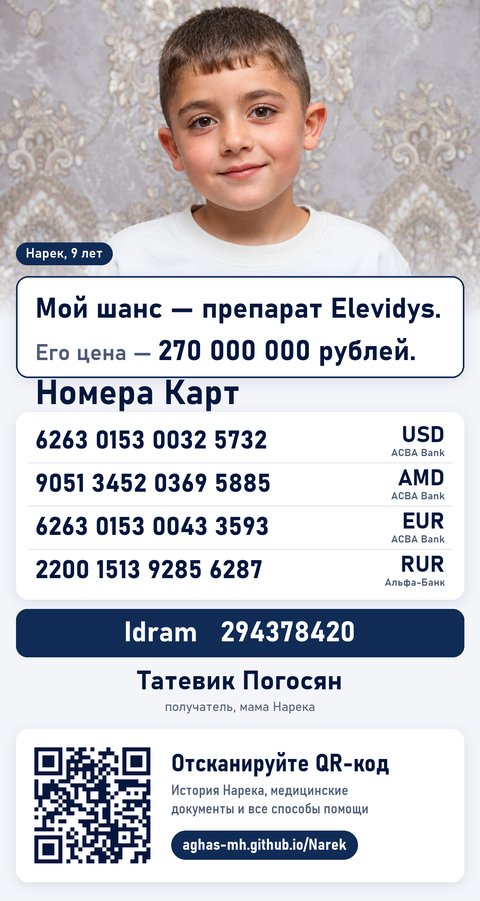
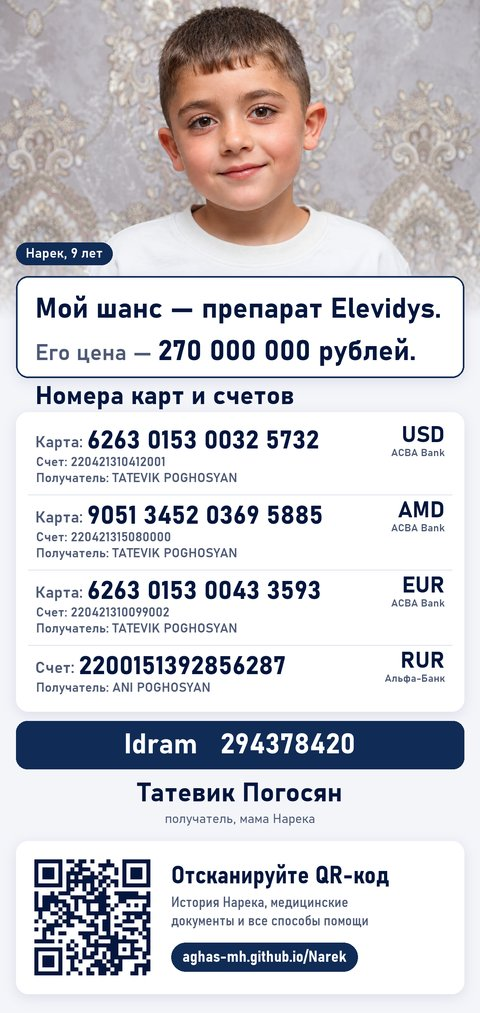
feat: enhance donation section with account number labels and improve poster dimensions

diff --git a/src/assets/css/style.css b/src/assets/css/style.css
@@ -443,6 +443,7 @@ a:hover { color: var(--navy-600); }
   font-variant-numeric: tabular-nums; color: var(--navy-900); white-space: nowrap;
 }
 .pay-row__emoji { font-size: 0.95em; letter-spacing: 0; }
+.pay-row__number-label { font-size: 0.8em; font-weight: 600; letter-spacing: 0; color: var(--muted); }
 .pay-row__account_number {
   display: inline-flex; align-items: center; gap: 0.35em;
   padding: 0.15em 0; border: 0; background: none; cursor: pointer;

diff --git a/tools/make-poster.py b/tools/make-poster.py
@@ -90,12 +90,26 @@ photo = photo.resize((W, PHOTO_H), Image.LANCZOS)
 goal = campaign["goal"]
 head1 = "Мой шанс — препарат Elevidys."
 head2a, head2b = "Его цена — ", f"{money_ru(goal['amount'])} рублей."
-head3a = "Номера Карт"
+head3a = "Номера карт и счетов"
 f_head1 = fit(head1, "Bold", 70, inner, scratch)
 f_head2b = font(f_head1.size, "Bold")
 f_head2a = font(round(f_head1.size * 0.8), "SemiBold")
 
-ROW_H, ROWS_PAD = 108, 18
+ROW_H, ROWS_PAD, SUB_H = 108, 18, 40
+labels = ru["donate"]
+
+
+def sub_lines(p):
+    """Smaller lines under the number: bank account and account holder, as on the website."""
+    lines = []
+    if p.get("accountNumber"):
+        lines.append(f"{labels['account']} {p['accountNumber']}")
+    if p.get("beneficiary") and not str(p["beneficiary"]).upper().startswith("TODO"):
+        lines.append(f"{labels['beneficiary']} {p['beneficiary']}")
+    return lines
+
+
+row_heights = [ROW_H + SUB_H * len(sub_lines(payments[pid])) for pid in CARDS]
 QR_MODULE, QR_PAD = 10, 46
 qr = qrcode.QRCode(error_correction=qrcode.constants.ERROR_CORRECT_M, box_size=QR_MODULE, border=0)
 qr.add_data(args.url)
@@ -106,7 +120,7 @@ QR = qr_img.size[0]
 y_head = PHOTO_H - 110                                   # headline card overlaps the photo
 h_head = 48 + f_head1.size + 22 + f_head1.size + 44
 y_cards = y_head + h_head + 86
-h_cards = ROWS_PAD * 2 + ROW_H * len(CARDS)
+h_cards = ROWS_PAD * 2 + sum(row_heights)
 y_idram = y_cards + h_cards + 24
 h_idram = 120
 y_name = y_idram + h_idram + 34
@@ -148,13 +162,30 @@ draw.text((x, y_cards - 20), head3a, font=f_head3a, fill=INK, anchor="ls")
 card(img, (M, y_cards, W - M, y_cards + h_cards))
 draw = ImageDraw.Draw(img)
 f_num, f_cur, f_bank = font(64, "Bold"), font(56, "Bold"), font(26, "SemiBold")
+f_sub = font(32, "SemiBold")
+top = y_cards + ROWS_PAD
 for i, pid in enumerate(CARDS):
     p = payments[pid]
-    top = y_cards + ROWS_PAD + i * ROW_H
     mid = top + ROW_H // 2
     if i:
         draw.line((M + 30, top, W - M - 30, top), fill=LINE, width=2)
-    draw.text((M + 48, mid), group(p["number"]), font=f_num, fill=INK, anchor="lm")
+    number = group(p["number"]) if p.get("type") == "card" else p["number"]
+    nx = M + 48
+    acc_label = ""
+    if p.get("type") == "account":
+        # A bank account number, not a card number: say so in front of it
+        acc_label = labels["account"] + " "
+    else:
+        acc_label = "Карта: "
+
+    f_acc = font(40, "SemiBold")
+    draw.text((nx, mid + 4), acc_label, font=f_acc, fill=MUTED, anchor="lm")
+    nx += draw.textlength(acc_label, font=f_acc)
+
+    draw.text((nx, mid), number, font=fit(number, "Bold", 64, W - M - 230 - nx, draw), fill=INK, anchor="lm")
+    for j, line in enumerate(sub_lines(p)):
+        draw.text((M + 50, top + ROW_H - 14 + j * SUB_H), line, font=f_sub, fill=MUTED, anchor="lt")
+    top += row_heights[i]
     bank = BANK_NAMES_RU.get(p.get("bank", ""), p.get("bank", ""))
     draw.text((W - M - 48, mid - 14), p["currency"], font=f_cur, fill=INK, anchor="rm")
     if bank:
